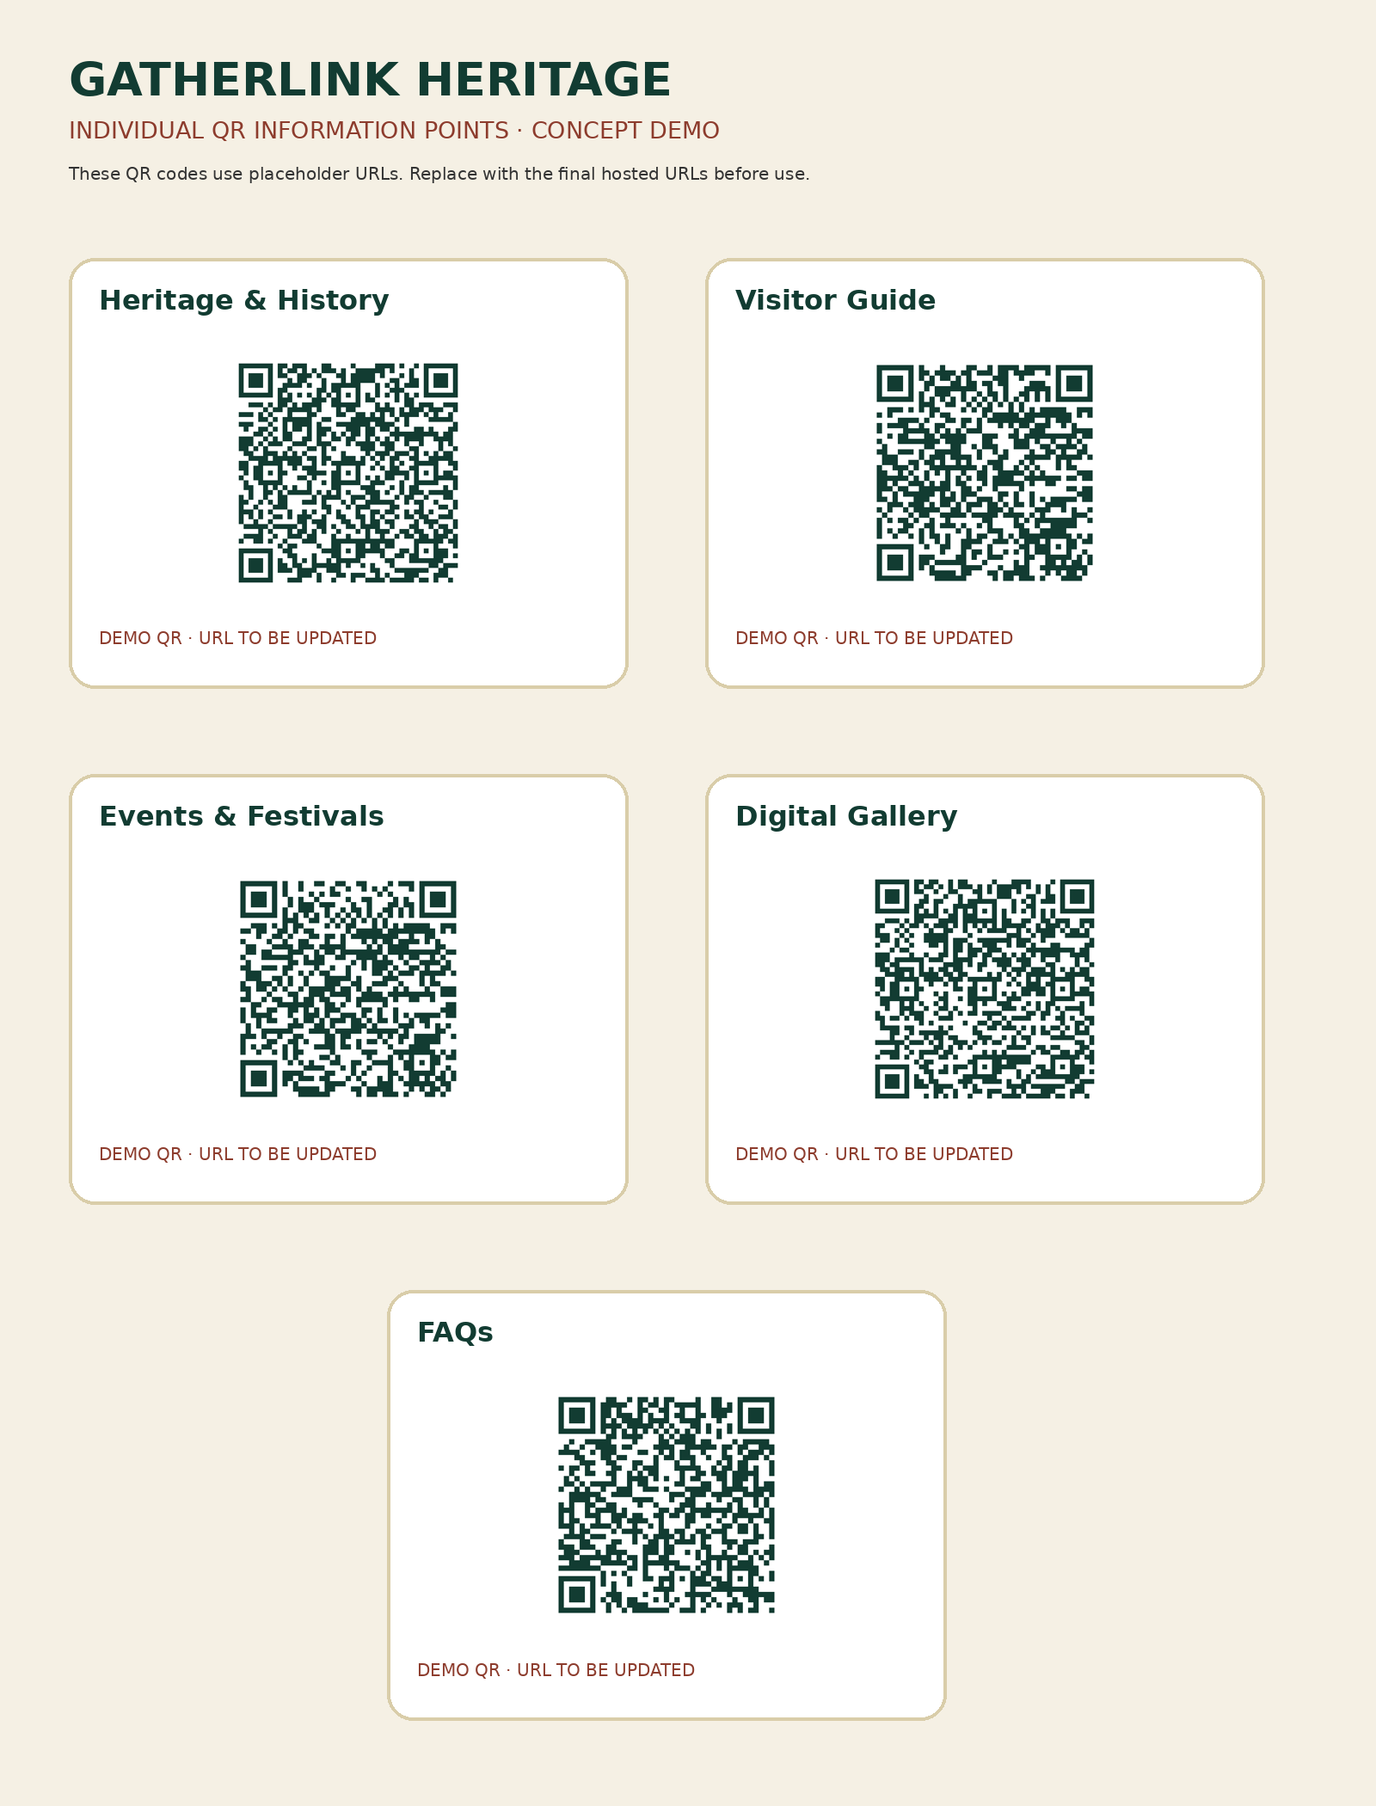
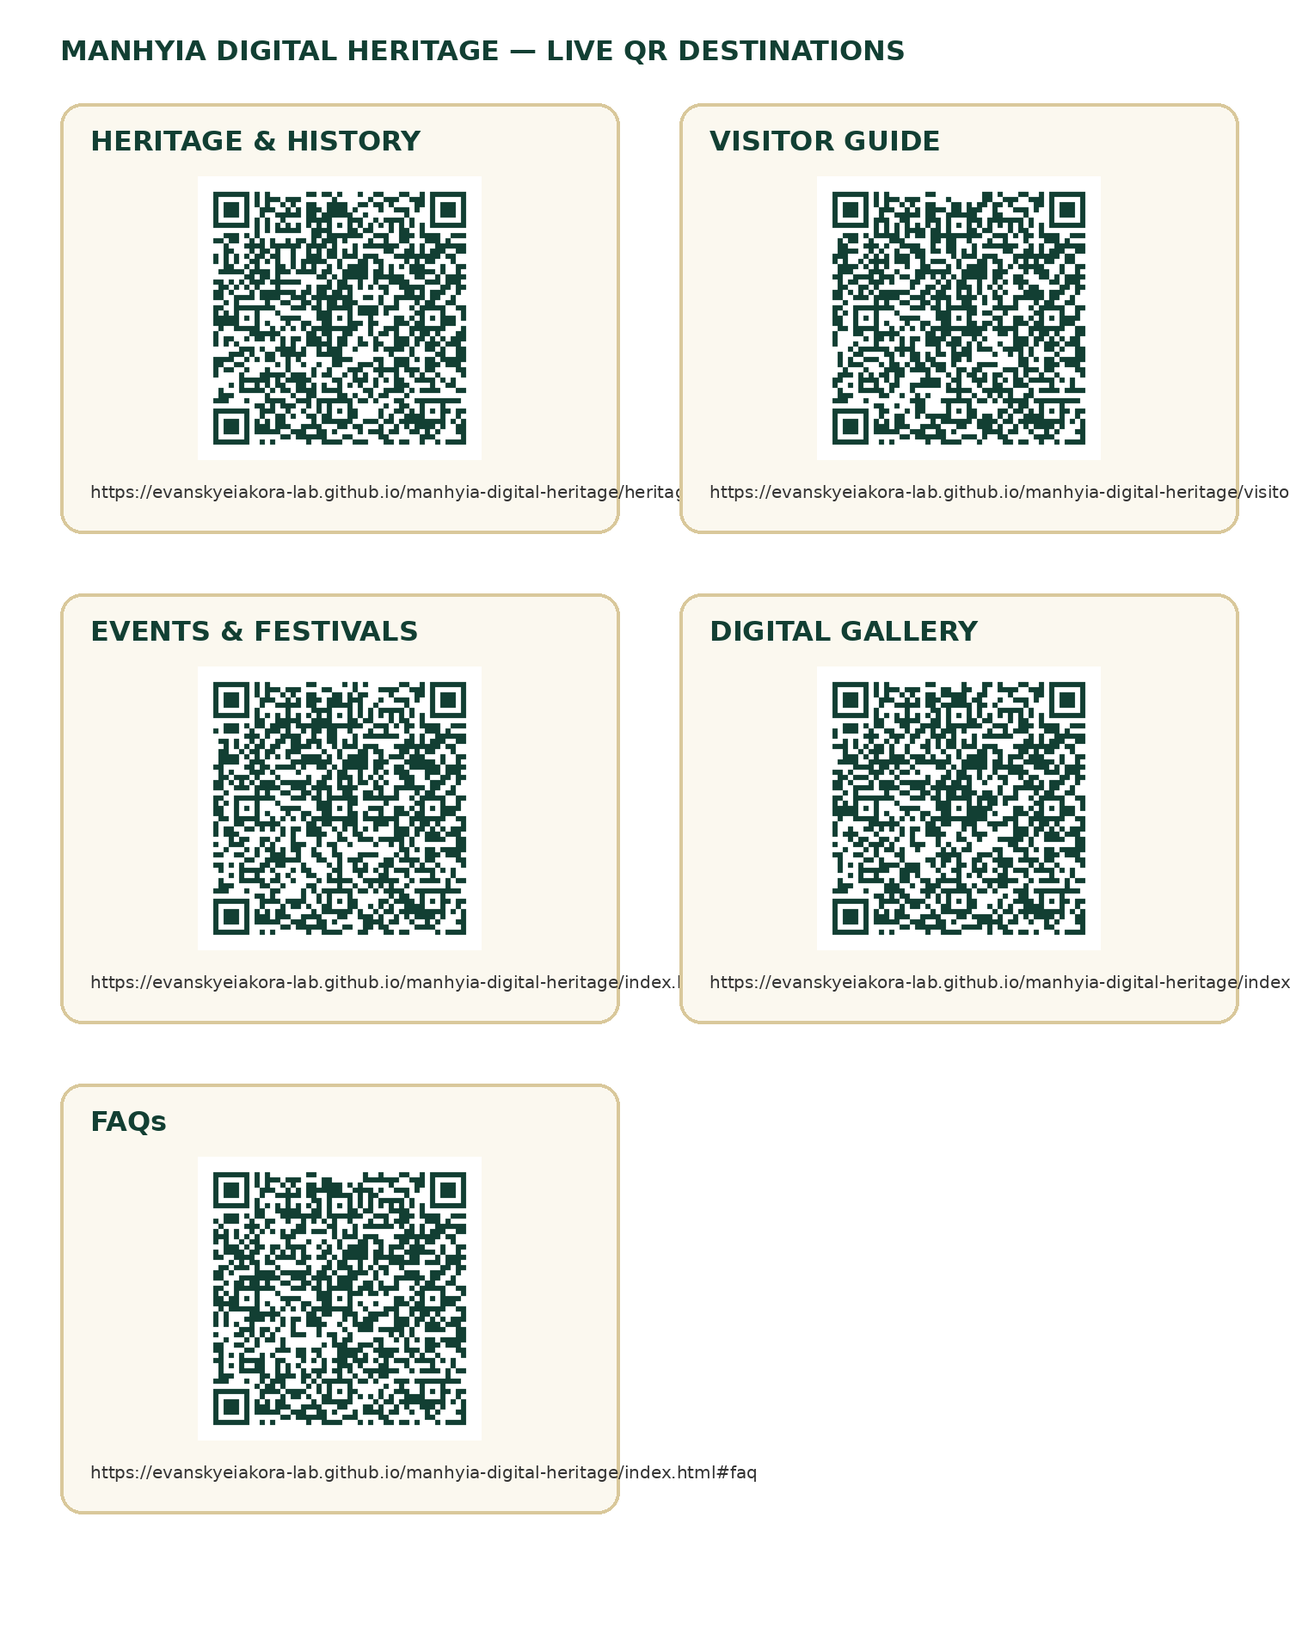
Add files via upload

diff --git a/index.html b/index.html
@@ -21,7 +21,7 @@
 <main id="top">
 <section class="hero"><div class="hero-in"><div><div class="eyebrow">Digital Heritage · Visitor Experience</div><h1>Discover the Heritage of Asanteman</h1><p>Explore culture, history, visitor information and educational experiences through a modern digital guide designed for mobile visitors.</p><div class="buttons"><a class="btn primary" href="#explore">Explore Heritage ↗</a><a class="btn secondary" href="#guide">Visitor Guide</a></div></div><aside class="hero-panel"><div class="panel-top"><span>HERITAGE EXPERIENCE</span><span>✦</span></div><div class="panel-stat"><div class="stat"><strong>01</strong><span>Discover</span></div><div class="stat"><strong>02</strong><span>Explore</span></div><div class="stat"><strong>03</strong><span>Learn</span></div></div><p class="hero-note">A mobile-first concept to demonstrate how approved heritage information and visitor resources could be presented digitally.</p></aside></div></section>
 <section class="section" id="explore"><div class="section-head"><div class="eyebrow">Explore</div><h2>A Digital Journey of Discovery</h2><p>Sample sections demonstrate how visitors could access approved information and educational content from a single mobile-friendly experience.</p></div><div class="cards"><article class="card"><div class="icon">🏛</div><h3>Heritage & History</h3><p>Sample timelines and educational stories. Content would be reviewed and approved by authorised representatives.</p></article><article class="card"><div class="icon">🧭</div><h3>Visitor Guide</h3><p>Visitor information, guidance, frequently asked questions and planning details.</p></article><article class="card"><div class="icon">🎉</div><h3>Events & Festivals</h3><p>A concept section for public event announcements and visitor information, subject to approval.</p></article><article class="card"><div class="icon">🖼</div><h3>Digital Gallery</h3><p>A gallery structure for authorised photographs, exhibitions and educational displays.</p></article><article class="card"><div class="icon">📍</div><h3>Location & Directions</h3><p>Map and directions after the official visitor route and destination details are confirmed.</p></article><article class="card"><div class="icon">📱</div><h3>QR Information Points</h3><p>Scan a code to open a dedicated information page on a phone—no app installation required.</p></article></div></section>
-<section class="guide" id="guide"><div class="guide-in"><div><div class="eyebrow" style="color:var(--green)">Visitor Guide · Concept</div><h2>Plan Your Visit</h2><p>This demonstration shows how important visitor information could be organised. Official details must be verified before launch.</p><div class="guidebox"><h3>Visitor information</h3><ul><li>Opening hours and ticket information</li><li>Visitor etiquette and photography guidance</li><li>Location and directions</li><li>Accessibility and facilities</li><li>Frequently asked questions</li></ul><strong>Content status:</strong> Sample structure only; no official visitor details represented.</div><div class="vguide-details" aria-label="Interactive visitor guide sections"><details><summary>🕰 Before your visit</summary><p>Check official visitor information before travelling. This concept section is designed to show where confirmed opening hours, admission information, booking requirements, and special notices could appear.</p><ul><li>Confirm operating hours and admission details from authorised sources.</li><li>Check whether advance booking or group arrangements are required.</li><li>Review any temporary visitor notices before arrival.</li></ul><span class="sample-tag">SAMPLE CONTENT — VERIFY OFFICIALLY</span></details><details><summary>👕 Visitor etiquette</summary><p>A digital guide could provide respectful visitor guidance, including conduct, dress expectations, and any special instructions for particular spaces or ceremonies.</p><ul><li>Follow instructions from staff or authorised guides.</li><li>Respect restricted areas and cultural protocols.</li><li>Ask before photographing people or ceremonial activities.</li></ul><span class="sample-tag">GUIDANCE SUBJECT TO AUTHORISATION</span></details><details><summary>📷 Photography & recording</summary><p>Photography, video, and audio recording rules may differ by location or exhibition. This prototype intentionally does not state an official policy.</p><ul><li>Look for posted notices and follow staff directions.</li><li>Confirm restrictions before recording or sharing images.</li><li>Respect privacy and cultural sensitivities.</li></ul><span class="sample-tag">OFFICIAL POLICY NOT VERIFIED</span></details><details><summary>♿ Accessibility & assistance</summary><p>This section could list verified accessibility features, assistance contacts, mobility guidance, and information about visitor support.</p><ul><li>Accessible routes and facilities, once confirmed.</li><li>Contact information for assistance, once approved.</li><li>Any visitor support arrangements.</li></ul><span class="sample-tag">DETAILS TO BE CONFIRMED</span></details><details><summary>🛍 Facilities & services</summary><p>Confirmed facilities could be listed here so visitors can plan ahead. Only facilities verified by the institution would be published.</p><ul><li>Parking and transport guidance.</li><li>Restrooms and visitor amenities.</li><li>Shop, refreshments, or other services if available and confirmed.</li></ul><span class="sample-tag">SAMPLE STRUCTURE</span></details><details><summary>📍 Location & directions</summary><p>A deployed guide could include an official map pin, directions, public transport information, and an arrival point. The location and visitor entrance must be confirmed before this is published.</p><span class="sample-tag">MAP / ROUTE NOT YET VERIFIED</span></details><details><summary>🌐 Language & learning support</summary><p>The platform could offer approved information in English and additional languages selected by the institution. Any translations would be reviewed before publication.</p><ul><li>Language selector concept.</li><li>Short, mobile-friendly explanations.</li><li>Audio or accessible formats if approved and produced.</li></ul><span class="sample-tag">LANGUAGE CONTENT TO BE APPROVED</span></details></div><div class="guide-cta"><a href="#faq">Read FAQs ↓</a><a href="#events">Explore event information</a></div></div><div class="qr-card"><img src="assets/qr-demo.png" alt="Demo QR code" style="width:138px;height:138px;object-fit:contain;background:#fff;border:10px solid #fff;border-radius:7px;margin:0 auto 18px;display:block"><h3>QR VISITOR EXPERIENCE</h3><p>Scan-to-open concept<br>Mobile-friendly · No app required</p><p style="margin-top:15px"><a href="qr-experience.html" style="display:inline-block;padding:9px 15px;border-radius:22px;background:var(--gold2);color:var(--green);font-weight:800">Open QR Landing Page →</a></p><p style="font-size:.72rem;margin-top:9px">QR currently uses a placeholder URL; update after hosting.</p></div></div></section>
+<section class="guide" id="guide"><div class="guide-in"><div><div class="eyebrow" style="color:var(--green)">Visitor Guide · Concept</div><h2>Plan Your Visit</h2><p>This demonstration shows how important visitor information could be organised. Official details must be verified before launch.</p><div class="guidebox"><h3>Visitor information</h3><ul><li>Opening hours and ticket information</li><li>Visitor etiquette and photography guidance</li><li>Location and directions</li><li>Accessibility and facilities</li><li>Frequently asked questions</li></ul><strong>Content status:</strong> Sample structure only; no official visitor details represented.</div><div class="vguide-details" aria-label="Interactive visitor guide sections"><details><summary>🕰 Before your visit</summary><p>Check official visitor information before travelling. This concept section is designed to show where confirmed opening hours, admission information, booking requirements, and special notices could appear.</p><ul><li>Confirm operating hours and admission details from authorised sources.</li><li>Check whether advance booking or group arrangements are required.</li><li>Review any temporary visitor notices before arrival.</li></ul><span class="sample-tag">SAMPLE CONTENT — VERIFY OFFICIALLY</span></details><details><summary>👕 Visitor etiquette</summary><p>A digital guide could provide respectful visitor guidance, including conduct, dress expectations, and any special instructions for particular spaces or ceremonies.</p><ul><li>Follow instructions from staff or authorised guides.</li><li>Respect restricted areas and cultural protocols.</li><li>Ask before photographing people or ceremonial activities.</li></ul><span class="sample-tag">GUIDANCE SUBJECT TO AUTHORISATION</span></details><details><summary>📷 Photography & recording</summary><p>Photography, video, and audio recording rules may differ by location or exhibition. This prototype intentionally does not state an official policy.</p><ul><li>Look for posted notices and follow staff directions.</li><li>Confirm restrictions before recording or sharing images.</li><li>Respect privacy and cultural sensitivities.</li></ul><span class="sample-tag">OFFICIAL POLICY NOT VERIFIED</span></details><details><summary>♿ Accessibility & assistance</summary><p>This section could list verified accessibility features, assistance contacts, mobility guidance, and information about visitor support.</p><ul><li>Accessible routes and facilities, once confirmed.</li><li>Contact information for assistance, once approved.</li><li>Any visitor support arrangements.</li></ul><span class="sample-tag">DETAILS TO BE CONFIRMED</span></details><details><summary>🛍 Facilities & services</summary><p>Confirmed facilities could be listed here so visitors can plan ahead. Only facilities verified by the institution would be published.</p><ul><li>Parking and transport guidance.</li><li>Restrooms and visitor amenities.</li><li>Shop, refreshments, or other services if available and confirmed.</li></ul><span class="sample-tag">SAMPLE STRUCTURE</span></details><details><summary>📍 Location & directions</summary><p>A deployed guide could include an official map pin, directions, public transport information, and an arrival point. The location and visitor entrance must be confirmed before this is published.</p><span class="sample-tag">MAP / ROUTE NOT YET VERIFIED</span></details><details><summary>🌐 Language & learning support</summary><p>The platform could offer approved information in English and additional languages selected by the institution. Any translations would be reviewed before publication.</p><ul><li>Language selector concept.</li><li>Short, mobile-friendly explanations.</li><li>Audio or accessible formats if approved and produced.</li></ul><span class="sample-tag">LANGUAGE CONTENT TO BE APPROVED</span></details></div><div class="guide-cta"><a href="#faq">Read FAQs ↓</a><a href="#events">Explore event information</a></div></div><div class="qr-card"><img src="assets/qr-demo.png" alt="Demo QR code" style="width:138px;height:138px;object-fit:contain;background:#fff;border:10px solid #fff;border-radius:7px;margin:0 auto 18px;display:block"><h3>QR VISITOR EXPERIENCE</h3><p>Scan-to-open concept<br>Mobile-friendly · No app required</p><p style="margin-top:15px"><a href="qr-experience.html" style="display:inline-block;padding:9px 15px;border-radius:22px;background:var(--gold2);color:var(--green);font-weight:800">Open QR Landing Page →</a></p><p style="font-size:.72rem;margin-top:9px">QR now points to the live QR Visitor Experience.</p></div></div></section>
 <section class="section" id="events"><div class="section-head"><div class="eyebrow">Events & Festivals</div><h2>Public Event Information</h2><p>Sample event cards demonstrate how approved public information could be shared.</p></div><div class="event-list"><article class="event"><div class="event-badge">EVENT<br>01</div><div><h3>Public Cultural Event</h3><p>Sample listing. Official dates and details would be supplied by authorised organisers.</p></div></article><article class="event"><div class="event-badge">EVENT<br>02</div><div><h3>Heritage Learning Experience</h3><p>Sample educational listing · Demonstration content only.</p></div></article></div></section>
 <section class="section" id="gallery"><div class="section-head"><div class="eyebrow">Digital Gallery</div><h2>Explore Through Visual Stories</h2><p>Placeholders illustrate how authorised media could be presented. No official or restricted imagery is used.</p></div><div class="gallery"><div class="tile">Heritage Stories</div><div class="tile">Cultural Exhibitions</div><div class="tile">Historic Moments</div><div class="tile">Educational Displays</div></div></section>
 <section class="section" id="faq"><div class="section-head"><div class="eyebrow">Frequently Asked Questions</div><h2>Visitor FAQs</h2><p>Sample questions demonstrate the FAQ experience.</p></div><div class="faq"><details><summary>Is this an official palace website?</summary><p>No. This is a concept demonstration created by GatherLink Heritage. It is not an official website, endorsement or partnership.</p></details><details><summary>Do I need to download an app?</summary><p>The concept opens in a mobile browser from a QR code or shared link, without requiring an app.</p></details><details><summary>Where can I find official visitor details?</summary><p>Official details should be obtained directly from the institution or its authorised channels. This prototype does not publish verified operating information.</p></details><details><summary>Can QR codes link to different information?</summary><p>In a deployed system, separate QR codes could lead to approved pages for visitor information, exhibits, events or designated information points.</p></details></div></section>

diff --git a/qr-information-points.html b/qr-information-points.html
@@ -1,3 +1,3 @@
 <!doctype html><html lang="en"><head><meta charset="utf-8"><meta name="viewport" content="width=device-width,initial-scale=1"><title>QR Information Points | GatherLink Heritage Concept</title><style>
 :root{--green:#123c32;--gold:#e6c35c;--cream:#f5f0e4;--rust:#8d3c2d}*{box-sizing:border-box}body{margin:0;background:var(--cream);color:#213b34;font:16px/1.6 system-ui,Arial,sans-serif}.notice{background:var(--rust);color:white;text-align:center;padding:12px;font-size:12px;font-weight:800;letter-spacing:.08em}.wrap{max-width:1100px;margin:auto;padding:30px 20px}.brand{display:flex;gap:12px;align-items:center;color:var(--green);font-weight:900;text-decoration:none;letter-spacing:.08em}.mark{width:45px;height:45px;border-radius:14px;background:var(--green);color:var(--gold);display:grid;place-items:center;font-size:26px}.brand small{display:block;font-size:10px;letter-spacing:.2em}.hero{background:var(--green);color:white;border-radius:28px;padding:35px;margin:25px 0}.hero h1{font-family:Georgia,serif;font-size:clamp(30px,5vw,52px);line-height:1.1;margin:12px 0}.eyebrow{color:var(--gold);font-size:12px;font-weight:900;letter-spacing:.15em}.cards{display:grid;grid-template-columns:repeat(auto-fit,minmax(260px,1fr));gap:18px}.card{background:#fffdf8;border:1px solid #e4d8bd;border-radius:20px;padding:20px;text-align:center;box-shadow:0 8px 22px #123c3210}.card img{width:210px;max-width:100%;background:white;padding:10px;border:1px solid #ddd;border-radius:12px}.card h2{font-family:Georgia,serif;color:var(--green);font-size:24px}.url{font-size:12px;color:#6b6256;word-break:break-all}.warn{background:#fff3d2;border:1px solid #d5b454;border-radius:16px;padding:18px;margin:22px 0}.btn{display:inline-block;background:var(--gold);color:var(--green);font-weight:800;text-decoration:none;padding:12px 18px;border-radius:999px;margin:8px 0}.footer{text-align:center;margin-top:30px;color:#6b6256;font-size:13px}@media print{body{background:white}.notice,.btn{display:none}.wrap{max-width:none}.card{break-inside:avoid;box-shadow:none}}
-</style></head><body><div class="notice">CONCEPT DEMONSTRATION · NOT AN OFFICIAL PALACE WEBSITE OR PARTNERSHIP</div><main class="wrap"><a class="brand" href="index.html"><span class="mark">✦</span><span>DIGITAL HERITAGE<small>GATHERLINK HERITAGE · CONCEPT</small></span></a><section class="hero"><div class="eyebrow">QR INFORMATION POINTS</div><h1>One QR code.<br>One useful destination.</h1><p>Different QR codes can open specific visitor information directly. This page demonstrates the proposed QR points and their destinations.</p></section><div class="warn"><strong>Important:</strong> These codes contain placeholder URLs using a reserved example domain. They will not work as live links until we host the prototype and replace them with the final website URLs.</div><section class="cards"><article class="card"><img src="assets/qr-heritage.png" alt="QR code for Heritage & History"><h2>Heritage & History</h2><p>Direct destination concept</p><div class="url">https://your-live-domain.example/manhyia/heritage-info.html</div></article><article class="card"><img src="assets/qr-visitor.png" alt="QR code for Visitor Guide"><h2>Visitor Guide</h2><p>Direct destination concept</p><div class="url">https://your-live-domain.example/manhyia/visitor-info.html</div></article><article class="card"><img src="assets/qr-events.png" alt="QR code for Events & Festivals"><h2>Events & Festivals</h2><p>Direct destination concept</p><div class="url">https://your-live-domain.example/manhyia/index.html#events</div></article><article class="card"><img src="assets/qr-gallery.png" alt="QR code for Digital Gallery"><h2>Digital Gallery</h2><p>Direct destination concept</p><div class="url">https://your-live-domain.example/manhyia/index.html#gallery</div></article><article class="card"><img src="assets/qr-faqs.png" alt="QR code for FAQs"><h2>FAQs</h2><p>Direct destination concept</p><div class="url">https://your-live-domain.example/manhyia/index.html#faq</div></article></section><p class="footer">GatherLink Heritage · Digital Heritage & Visitor Experience concept · <a href="index.html">Return to homepage</a></p></main></body></html>
+</style></head><body><div class="notice">CONCEPT DEMONSTRATION · NOT AN OFFICIAL PALACE WEBSITE OR PARTNERSHIP</div><main class="wrap"><a class="brand" href="index.html"><span class="mark">✦</span><span>DIGITAL HERITAGE<small>GATHERLINK HERITAGE · CONCEPT</small></span></a><section class="hero"><div class="eyebrow">QR INFORMATION POINTS</div><h1>One QR code.<br>One useful destination.</h1><p>Different QR codes can open specific visitor information directly. This page demonstrates the proposed QR points and their destinations.</p></section><div class="warn"><strong>Important:</strong> These codes contain placeholder URLs using a reserved example domain. They will not work as live links until we host the prototype and replace them with the final website URLs.</div><section class="cards"><article class="card"><img src="assets/qr-heritage.png" alt="QR code for Heritage & History"><h2>Heritage & History</h2><p>Direct destination concept</p><div class="url">https://evanskyeiakora-lab.github.io/manhyia-digital-heritage/heritage-info.html</div></article><article class="card"><img src="assets/qr-visitor.png" alt="QR code for Visitor Guide"><h2>Visitor Guide</h2><p>Direct destination concept</p><div class="url">https://evanskyeiakora-lab.github.io/manhyia-digital-heritage/visitor-info.html</div></article><article class="card"><img src="assets/qr-events.png" alt="QR code for Events & Festivals"><h2>Events & Festivals</h2><p>Direct destination concept</p><div class="url">https://evanskyeiakora-lab.github.io/manhyia-digital-heritage/index.html#events</div></article><article class="card"><img src="assets/qr-gallery.png" alt="QR code for Digital Gallery"><h2>Digital Gallery</h2><p>Direct destination concept</p><div class="url">https://evanskyeiakora-lab.github.io/manhyia-digital-heritage/index.html#gallery</div></article><article class="card"><img src="assets/qr-faqs.png" alt="QR code for FAQs"><h2>FAQs</h2><p>Direct destination concept</p><div class="url">https://evanskyeiakora-lab.github.io/manhyia-digital-heritage/index.html#faq</div></article></section><p class="footer">GatherLink Heritage · Digital Heritage & Visitor Experience concept · <a href="index.html">Return to homepage</a></p></main></body></html>
